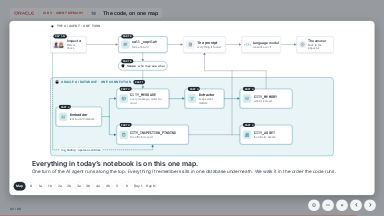
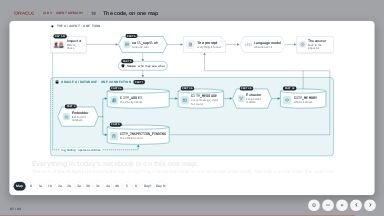
All pages: each step of Lab 3's code map is a sub-page tile (19, 19a to 19q) with its own preview; clicking one opens that step

diff --git a/src/overlay/JumpMenu.tsx b/src/overlay/JumpMenu.tsx
@@ -3,11 +3,18 @@ import { useSceneStore } from '../engine/store';
 import { useUiStore } from '../engine/ui';
 import { CHAPTER_NAME, PARTS, SECTIONS } from '../scenes/sections';
 import { pageLabel } from '../scenes';
+import { MAP_STEPS, stepName } from '../content/lab3Map';
+import { useDrawerStore } from '../engine/presentation';
+
+/** Lab 3's code map is one page with many steps; the overview shows each step as its own sub-page, 19, 19a, 19b… (owner, 4 Nov) */
+const MAP_PAGE = '3.6m';
+const stepLetter = (i: number) => (i === 0 ? '' : String.fromCharCode(96 + i));
 
 /**
  * Page overview (Pages button or J): every page as a preview with its name under it, grouped by
  * chapter and story section. Click one to jump there. Previews are pictures of the real pages
- * (public/thumbs/<id>.jpg, refreshed by tools/capture-thumbs.mjs).
+ * (public/thumbs/<id>.jpg, refreshed by tools/capture-thumbs.mjs). The code map's steps are sub-pages with pictures of their own
+ * (public/thumbs/3.6m_<step>.jpg, tools/capture-code-map-thumbs.mjs).
  */
 export function JumpMenu() {
   const scenes = useSceneStore((s) => s.scenes);
@@ -20,6 +27,7 @@ export function JumpMenu() {
     current.current?.scrollIntoView?.({ block: 'center' });
   }, []);
   const byId = new Map(scenes.map((s) => [s.id, s]));
+  const mapStep = useDrawerStore((s) => (s.open ? Math.min(s.focus, MAP_STEPS.length - 1) : 0));
 
   return (
     <div className="jump" onClick={close} role="dialog" aria-label="All pages">
@@ -37,34 +45,42 @@ export function JumpMenu() {
               <div key={sec.name} className="jump__section">
                 <h3 className="jump__section-name">{sec.name}</h3>
                 <div className="jump__grid">
-                  {sec.pages.map((id) => {
+                  {sec.pages.flatMap((id) => {
                     const s = byId.get(id);
-                    if (!s) return null;
-                    const here = scenes[index]?.id === id;
-                    return (
+                    if (!s) return [];
+                    const onPage = scenes[index]?.id === id;
+                    // the code map: one tile per step, on the page's own number plus a letter
+                    const tiles = id === MAP_PAGE ? MAP_STEPS.map((m, k) => ({ key: `${id}-${k}`, label: `${pageLabel(id)}${stepLetter(k)}`, name: k === 0 ? s.title : stepName(m), thumb: k === 0 ? `./thumbs/${id}.jpg` : `./thumbs/${id}_${k}.jpg`, step: k, here: onPage && mapStep === k })) : [{ key: id, label: pageLabel(id), name: s.title, thumb: `./thumbs/${id}.jpg`, step: -1, here: onPage }];
+                    return tiles.map((t) => (
                       <button
-                        key={id}
-                        ref={here ? current : undefined}
+                        key={t.key}
+                        ref={t.here ? current : undefined}
                         type="button"
-                        className={`jump__card${here ? ' current' : ''}`}
-                        aria-label={`${CHAPTER_NAME[s.chapter]} ${pageLabel(id)} ${s.title}`}
+                        className={`jump__card${t.here ? ' current' : ''}`}
+                        aria-label={`${CHAPTER_NAME[s.chapter]} ${t.label} ${t.name}`}
                         onClick={() => {
                           jumpTo(id);
+                          if (t.step >= 0) {
+                            const d = useDrawerStore.getState();
+                            d.setOpen(t.step > 0);
+                            d.setFocus(t.step);
+                            useDrawerStore.setState({ done: false });
+                          }
                           close();
                         }}
                       >
                         <span className="jump__thumb">
                           <img
-                            src={`./thumbs/${id}.jpg`}
-                            alt={`Preview of ${CHAPTER_NAME[s.chapter]} page ${pageLabel(id)}`}
+                            src={t.thumb}
+                            alt={`Preview of ${CHAPTER_NAME[s.chapter]} page ${t.label}`}
                             loading="lazy"
                             onError={(e) => ((e.currentTarget as HTMLImageElement).style.visibility = 'hidden')}
                           />
-                          <span className="jump__id mono">{pageLabel(id)}</span>
+                          <span className="jump__id mono">{t.label}</span>
                         </span>
-                        <span className="jump__name">{s.title}</span>
+                        <span className="jump__name">{t.name}</span>
                       </button>
-                    );
+                    ));
                   })}
                 </div>
               </div>

diff --git a/tests/overlay/JumpMenu.test.tsx b/tests/overlay/JumpMenu.test.tsx
@@ -4,6 +4,8 @@ import { useSceneStore } from '../../src/engine/store';
 import { useUiStore } from '../../src/engine/ui';
 import { SCENES, pageLabel } from '../../src/scenes/index';
 import { CHAPTER_NAME, SECTIONS } from '../../src/scenes/sections';
+import { MAP_STEPS, stepName } from '../../src/content/lab3Map';
+import { useDrawerStore } from '../../src/engine/presentation';
 
 beforeEach(() => {
   useSceneStore.getState().setScenes(SCENES);
@@ -45,3 +47,44 @@ test('opening and closing the overview does not crash where scrollIntoView retur
   expect(() => unmount()).not.toThrow();
   Element.prototype.scrollIntoView = orig;
 });
+
+// owner, 4 Nov: in All pages each step of the code map is a page of its own, shown as a sub-page: 19, 19a, 19b ...
+test('the code map shows each of its steps as a sub-page with its own preview', () => {
+  render(<JumpMenu />);
+  const n = pageLabel('3.6m');
+  const tile = (label: string) => screen.getByRole('button', { name: new RegExp(`^Lab 3 · Agent Memory ${label} `) });
+  // the page itself first, then one tile per step, lettered in order
+  expect(within(tile(n)).getByRole('img').getAttribute('src')).toBe('./thumbs/3.6m.jpg');
+  MAP_STEPS.slice(1).forEach((m, k) => {
+    const label = `${n}${String.fromCharCode(97 + k)}`;
+    const card = tile(label);
+    expect(within(card).getByRole('img').getAttribute('src')).toBe(`./thumbs/3.6m_${k + 1}.jpg`);
+    expect(within(card).getByText(stepName(m))).toBeInTheDocument();
+  });
+  expect(screen.getAllByRole('button', { name: /^Lab 3 · Agent Memory 19[a-q]? /i }).length).toBe(MAP_STEPS.length);
+});
+
+test('clicking a step of the code map opens that step; the open step is the current one', () => {
+  render(<JumpMenu />);
+  fireEvent.click(screen.getByRole('button', { name: new RegExp(`^Lab 3 · Agent Memory ${pageLabel('3.6m')}i `) }));
+  expect(useSceneStore.getState().current().id).toBe('3.6m');
+  expect(useDrawerStore.getState()).toMatchObject({ open: true, focus: 9 });
+  expect(useUiStore.getState().jumpOpen).toBe(false);
+  // reopened, the overview marks that step as the current one
+  useUiStore.setState({ jumpOpen: true });
+  const { container } = render(<JumpMenu />);
+  const current = container.querySelectorAll('.jump__card.current');
+  expect(current).toHaveLength(1);
+  expect(current[0].textContent).toContain(MAP_STEPS[9].title);
+  // the first tile goes back to the whole map
+  fireEvent.click(within(container).getByRole('button', { name: new RegExp(`^Lab 3 · Agent Memory ${pageLabel('3.6m')} The code`) }));
+  expect(useDrawerStore.getState()).toMatchObject({ open: false, focus: 0 });
+});
+
+test('the sub-page names are all different, so each step can be told apart', () => {
+  const names = MAP_STEPS.slice(1).map(stepName);
+  expect(new Set(names).size).toBe(names.length);
+  expect(names).toContain('Day 1: Mercer');
+  expect(names).toContain('0 · Run the cell.');
+});
+

diff --git a/src/content/lab3Map.ts b/src/content/lab3Map.ts
@@ -73,6 +73,9 @@ export const MAP_STEPS: MapStep[] = [
   { title: 'Later: Vance', rail: 'Day N', tag: 'DAY N', cam: ALL, ask: 'Vance asks, and Mercer’s work reaches him.', plain: 'He only calls call_copilot. His own thread is empty, but the asset’s memory and her finding come up the same road. No human handoff.', see: 'DAY N: Inspector Vance on Harbor Bridge (never met Mercer)', who: 'vance', nodes: ['inspector', 'copilot', 'scope', 'prompt', 'model', 'answer', 'memory', 'finding', 'asset'], lines: ['a', 'e', 'read', 'l', 'n', 'b', 'c', 'd'], code: { cell: 64, from: 'VANCE_DIAGNOSIS = await', to: 'asset_id="Harbor Bridge"', keys: ['VANCE_DIAGNOSIS = await', 'inspector_id="Jordan_Vance"', 'asset_id="Harbor Bridge"'], out: 'DAY N:' } },
 ];
 
+/** a step's name in the page overview: its button and what it is about; the picture steps are told apart by their question */
+export const stepName = (m: MapStep): string => (m.guide ? `${m.rail} · ${m.ask}` : m.title.startsWith(m.rail) ? m.title : `${m.rail} · ${m.title}`);
+
 export const NB_FILE = completeNotebook.file;
 
 export interface NbSpan {
